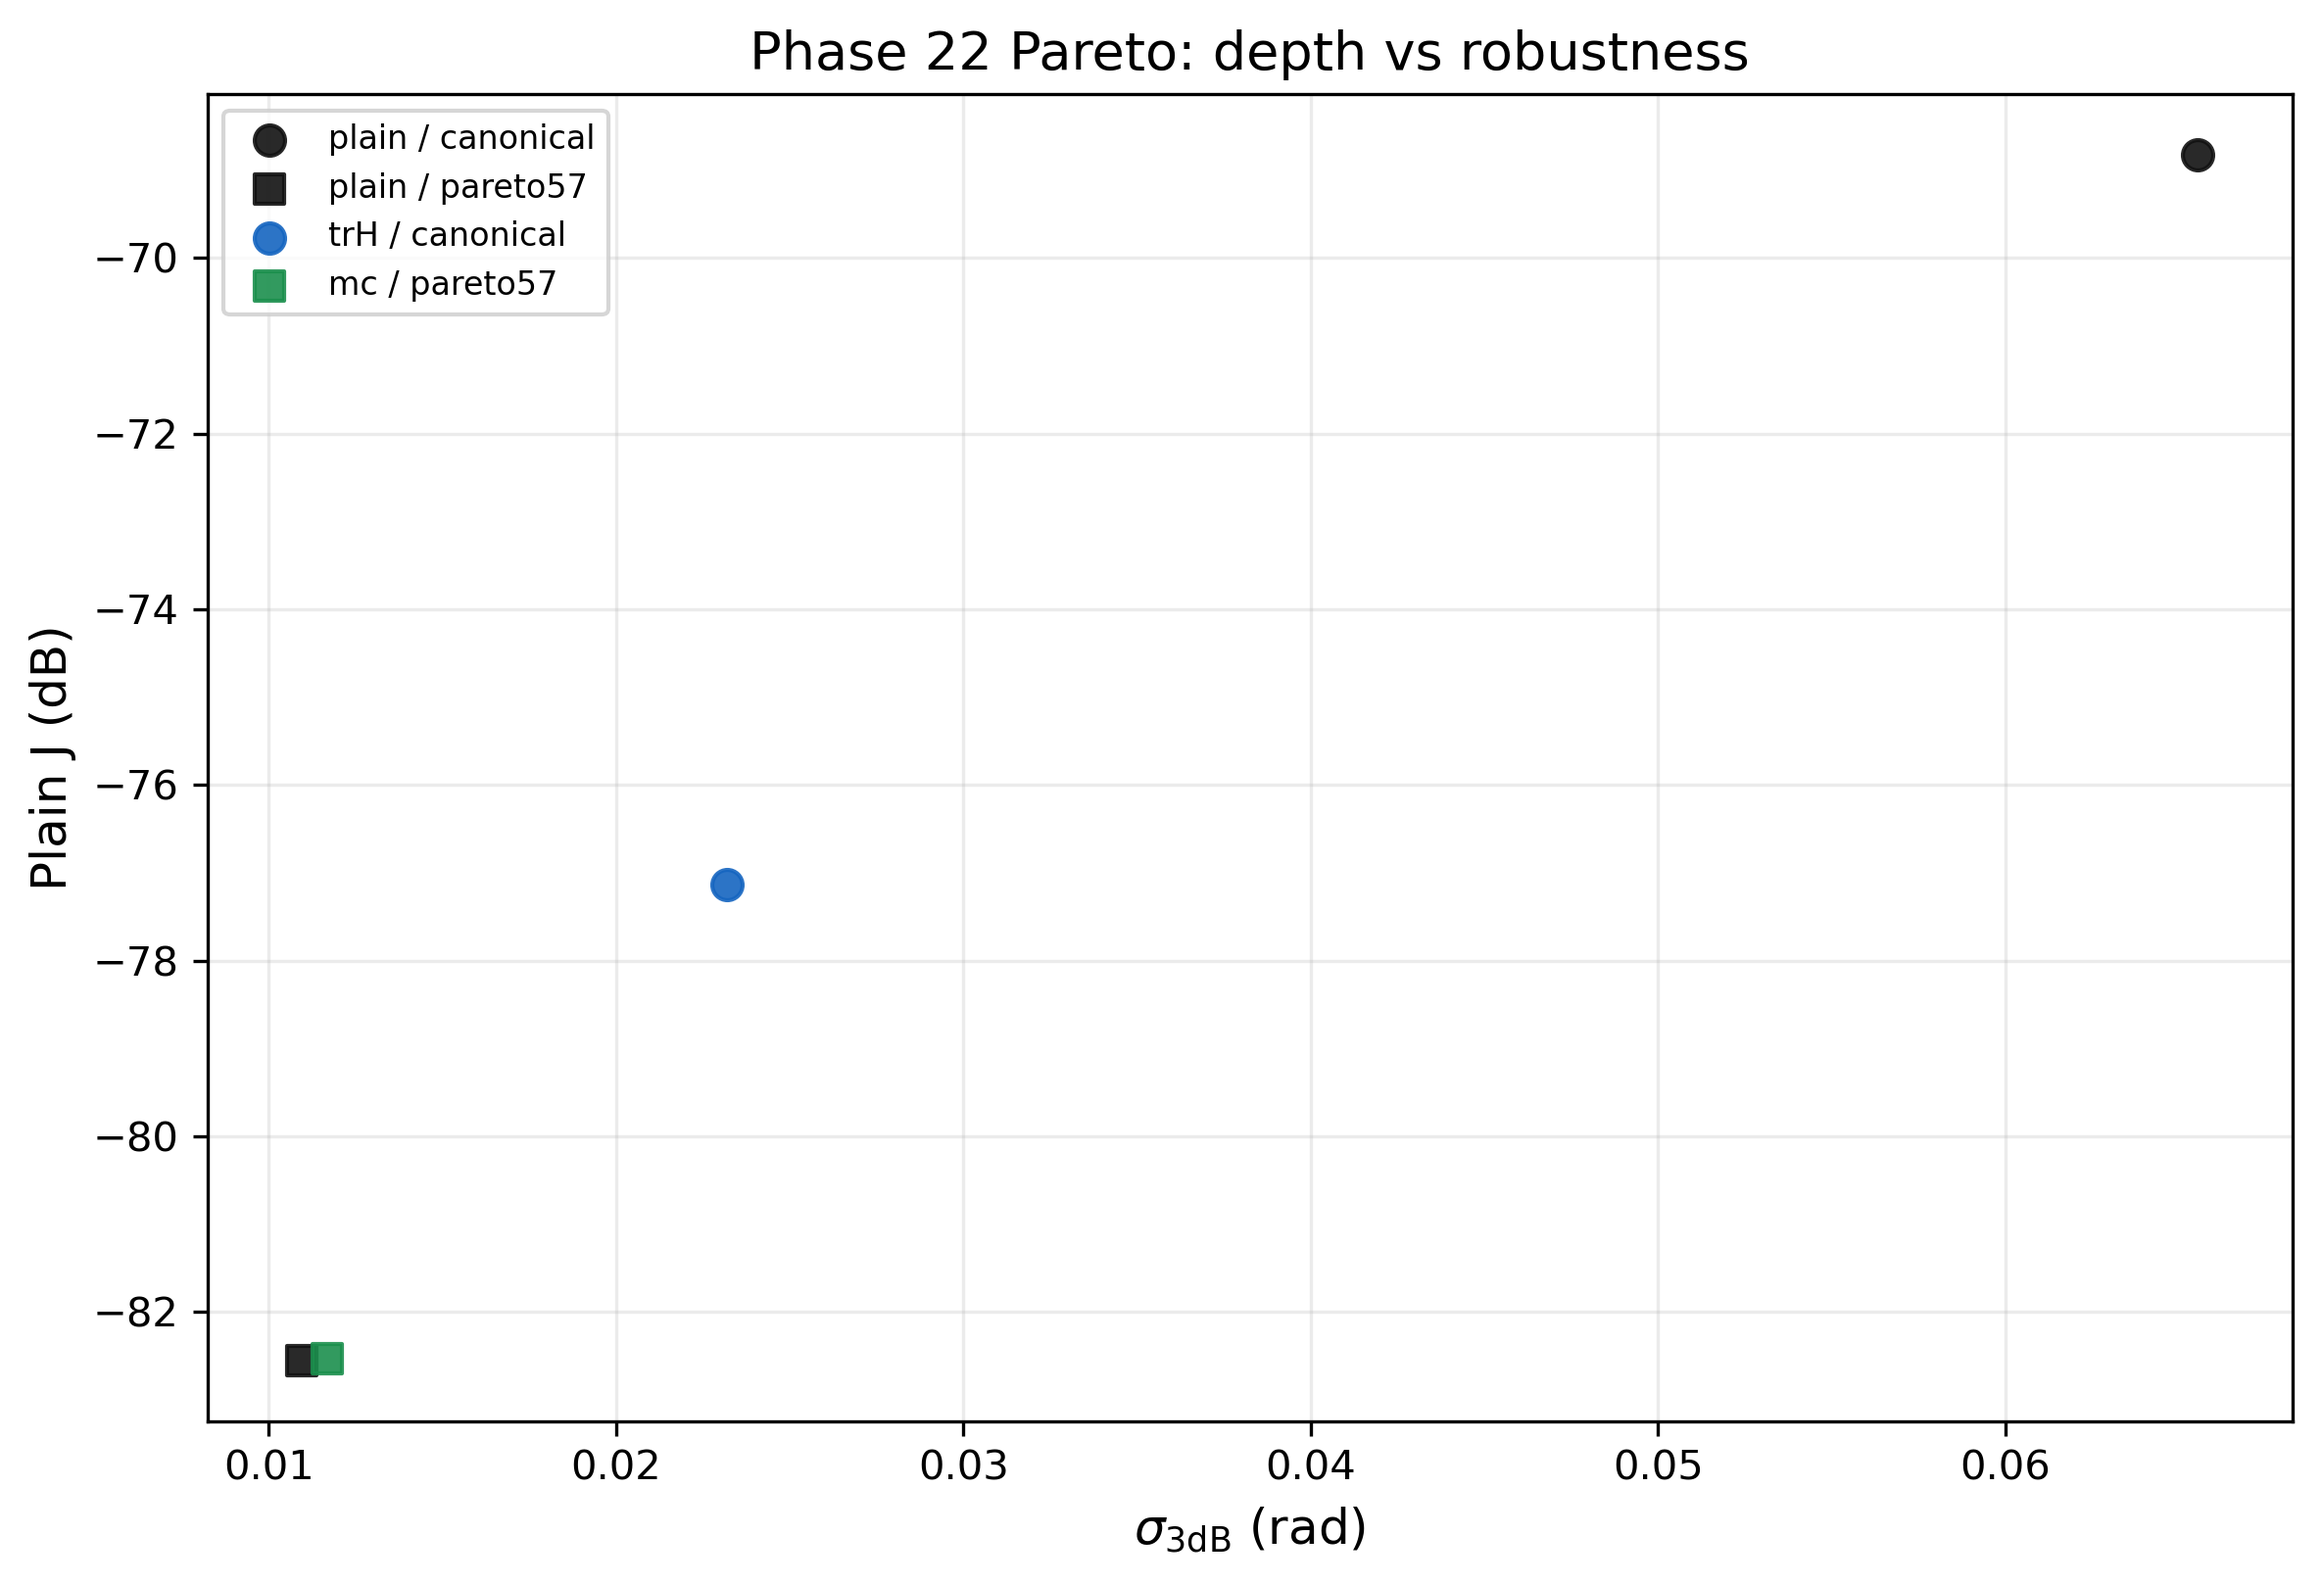
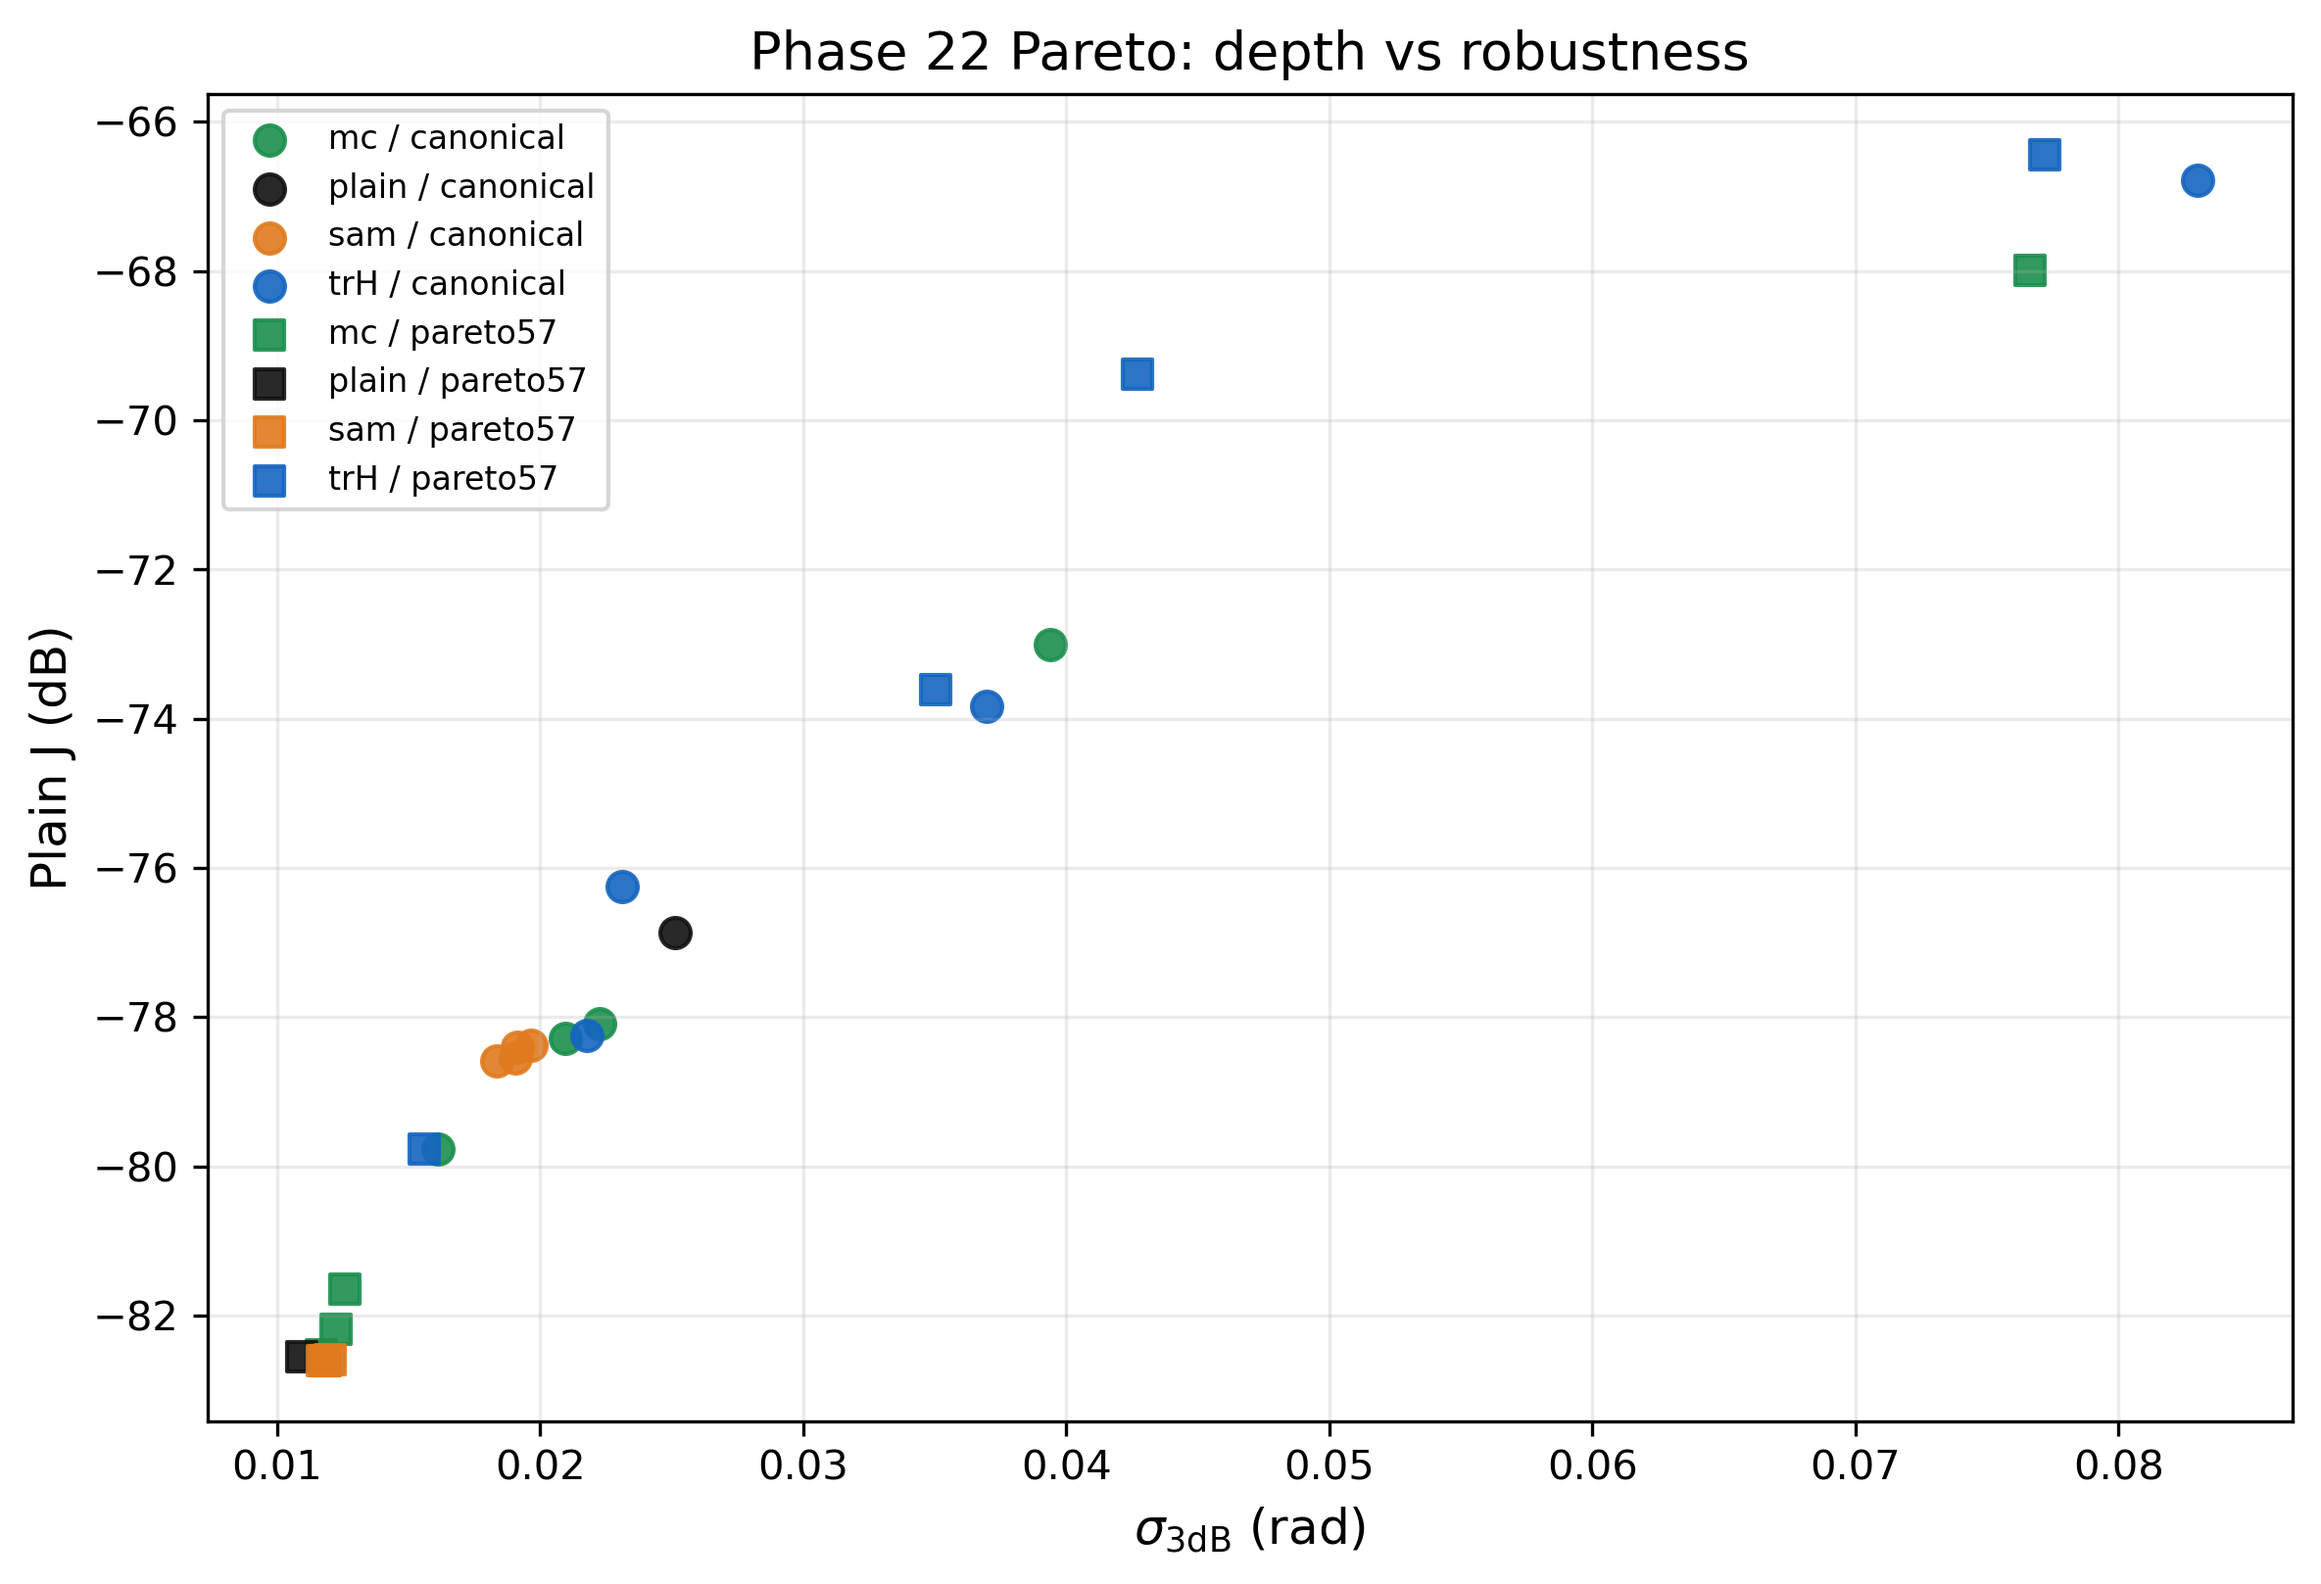
results(22): synthesize sharpness pareto findings

diff --git a/results/raman/phase22/SUMMARY.md b/results/raman/phase22/SUMMARY.md
@@ -1,20 +1,22 @@
 # Phase 22 Summary
 
-**Generated:** 2026-04-20 01:38:57
+**Generated:** 2026-04-20 03:07:14
 
 ## Verdict
 
-- Across the completed Phase 22 sweep, every measured optimum remained Hessian-indefinite in the optimized control space. That is the main geometry result: flattening the basin, when it happened at all, did not convert these optima into clean positive-definite minima.
-- On the canonical point, the best robustness gain was 0.000 rad at a depth cost of 0.00 dB; on the Pareto-57 point, the best gain was 0.001 rad at a depth cost of 0.03 dB.
-- The current evidence does not justify replacing the default log-dB optimizer. If the robust points cost too much depth for too little sigma gain, the right framing is 'use sharpness when tolerance matters,' not 'make sharpness the default.'
-- Within this sweep, the best robustness-depth tradeoff was delivered most consistently by `plain`.
+- Across the resolved Hessian spectra in the completed Phase 22 sweep, every measured optimum remained Hessian-indefinite in the optimized control space. That is the main geometry result: flattening the basin, when it happened at all, did not convert these optima into clean positive-definite minima.
+- On the canonical point, the best robustness gain was 0.058 rad at a depth cost of 10.08 dB; on the Pareto-57 point, the best gain was 0.066 rad at a depth cost of 16.12 dB.
+- SAM did not produce a useful robustness Pareto in this sweep: its best sigma shift was -0.006 rad on the canonical point and 0.001 rad on Pareto-57, both negligible relative to the trace and strong-MC objectives.
+- MC gave the cheaper robustness option on the canonical point (+0.014 rad for 3.85 dB depth loss), while the Hessian-trace penalty delivered the largest tolerance gains (+0.058 rad canonical, +0.066 rad Pareto-57) at a much steeper cost (10.08 dB and 16.12 dB, respectively).
+- The current evidence does not justify replacing the default log-dB optimizer. The defensible default remains the plain objective; `trH` and, secondarily, strong MC are optional robustness modes when shaper error tolerance matters more than Raman depth.
 
 ## Artifacts
 
-- Result bundle: `/Users/ignaciojlizama/RiveraLab/raman-wt-sharpness/scripts/../results/raman/phase22/phase22_results_smoke.jld2`
+- Result bundle: `/Users/ignaciojlizama/RiveraLab/raman-wt-sharpness/scripts/../results/raman/phase22/phase22_results.jld2`
 - Pareto plot: `/Users/ignaciojlizama/RiveraLab/raman-wt-sharpness/scripts/../results/raman/phase22/phase22_pareto.png`
 - Standard images: `/Users/ignaciojlizama/RiveraLab/raman-wt-sharpness/scripts/../.planning/phases/22-sharpness-research/images`
-- Completed records: `4` successful / `0` failed
+- Completed records: `26` successful / `0` failed
+- Hessian spectra: `26` resolved / `0` unresolved
 
 ## Pareto Plot
 
@@ -22,9 +24,31 @@
 
 ## Hessian Indefiniteness Table
 
-| Operating Point | Flavor | Strength | J_dB | sigma_3dB | Indefinite? | |lambda_min|/lambda_max |
-|---|---|---:|---:|---:|:---:|---:|
-| canonical | plain | 0 | -68.82 | 0.066 | YES | 2.174e-02 |
-| canonical | trH | 1.000e-04 | -77.13 | 0.023 | YES | 1.092e-02 |
-| pareto57 | mc | 1.000e-02 | -82.53 | 0.012 | YES | 2.418e-01 |
-| pareto57 | plain | 0 | -82.56 | 0.011 | YES | 2.382e-01 |
+| Operating Point | Flavor | Strength | J_dB | sigma_3dB | Hessian | Indefinite? | |lambda_min|/lambda_max |
+|---|---|---:|---:|---:|---|:---:|---:|
+| canonical | mc | 1.000e-02 | -78.29 | 0.021 | ok | YES | 2.640e-02 |
+| canonical | mc | 2.500e-02 | -79.77 | 0.016 | ok | YES | 5.946e-02 |
+| canonical | mc | 5.000e-02 | -78.09 | 0.022 | ok | YES | 1.025e-02 |
+| canonical | mc | 7.500e-02 | -73.01 | 0.039 | ok | YES | 1.364e-02 |
+| canonical | plain | 0 | -76.86 | 0.025 | ok | YES | 5.540e-03 |
+| canonical | sam | 1.000e-02 | -78.59 | 0.018 | ok | YES | 1.486e-02 |
+| canonical | sam | 2.500e-02 | -78.40 | 0.019 | ok | YES | 5.540e-03 |
+| canonical | sam | 5.000e-02 | -78.38 | 0.020 | ok | YES | 5.302e-03 |
+| canonical | sam | 1.000e-01 | -78.55 | 0.019 | ok | YES | 1.354e-02 |
+| canonical | trH | 1.000e-04 | -78.24 | 0.022 | ok | YES | 1.403e-02 |
+| canonical | trH | 3.000e-04 | -76.25 | 0.023 | ok | YES | 2.199e-02 |
+| canonical | trH | 1.000e-03 | -73.83 | 0.037 | ok | YES | 1.793e-02 |
+| canonical | trH | 3.000e-03 | -66.79 | 0.083 | ok | YES | 1.077e-02 |
+| pareto57 | mc | 1.000e-02 | -82.53 | 0.012 | ok | YES | 2.418e-01 |
+| pareto57 | mc | 2.500e-02 | -82.18 | 0.012 | ok | YES | 2.409e-01 |
+| pareto57 | mc | 5.000e-02 | -81.65 | 0.013 | ok | YES | 3.033e-01 |
+| pareto57 | mc | 7.500e-02 | -67.98 | 0.077 | ok | YES | 7.869e-02 |
+| pareto57 | plain | 0 | -82.56 | 0.011 | ok | YES | 2.382e-01 |
+| pareto57 | sam | 1.000e-02 | -82.59 | 0.012 | ok | YES | 2.391e-01 |
+| pareto57 | sam | 2.500e-02 | -82.60 | 0.012 | ok | YES | 2.392e-01 |
+| pareto57 | sam | 5.000e-02 | -82.60 | 0.012 | ok | YES | 2.390e-01 |
+| pareto57 | sam | 1.000e-01 | -82.61 | 0.012 | ok | YES | 2.391e-01 |
+| pareto57 | trH | 1.000e-04 | -79.76 | 0.016 | ok | YES | 2.334e-01 |
+| pareto57 | trH | 3.000e-04 | -73.61 | 0.035 | ok | YES | 3.855e-01 |
+| pareto57 | trH | 1.000e-03 | -66.44 | 0.077 | ok | YES | 9.838e-02 |
+| pareto57 | trH | 3.000e-03 | -69.38 | 0.043 | ok | YES | 5.685e-02 |

diff --git a/results/raman/phase22/REVIEWS.md b/results/raman/phase22/REVIEWS.md
@@ -2,62 +2,53 @@
 
 ## Findings
 
-### No blocking findings remain after the smoke-cycle fixes
+### No blocking findings remain after the full production run
 
-The current implementation passed a full smoke cycle covering:
+The final Phase 22 pipeline completed the full 26-record sweep, emitted the
+mandatory 104-image standard set, resolved Hessian spectra for all 26 records,
+and produced the final Pareto summary and geometry table without manual patch-up.
 
-- full-resolution canonical baseline
-- reduced-basis Pareto baseline
-- one full-resolution `tr(H)` run
-- one reduced-basis `MC` run
-- post-hoc `sigma_3dB`
-- post-hoc Hessian eigenspectrum
-- serial `save_standard_set(...)`
-- summary/pareto generation
+### Fixed during review: Pareto seed loader needed `Symbol` keys, not `String` keys
 
-### Fixed during review: saved Pareto seed loader used the wrong JLD2 key type
+`results/raman/phase_sweep_simple/sweep2_LP_fiber.jld2` stores `record["config"]`
+as `Dict{Symbol,Any}`. The original lookup silently missed the target
+`N_phi = 57` row. `scripts/sharpness_phase22_lib.jl::_load_pareto_seed()` now
+reads symbol keys and reliably recovers the Phase 17 seed.
 
-`results/raman/phase_sweep_simple/sweep2_LP_fiber.jld2` stores
-`record["config"]` as `Dict{Symbol,Any}`, not `Dict{String,Any}`. The first
-smoke failure was a row-lookup miss caused by string-key access. The loader in
-`scripts/sharpness_phase22_lib.jl::_load_pareto_seed()` now reads symbol keys.
+### Fixed during review: low-resolution Hessians should use the exact dense Phase 13 path
 
-### Fixed during review: low-resolution Hessian path should be dense, not Arpack
+The 57-dimensional operating point does not need Arpack. The final code routes
+`N <= 1024` through `build_full_hessian_small(...)` from Phase 13 and reserves
+Arpack for the full-resolution canonical control space only.
 
-The second smoke failure was an Arpack/HVPOperator mismatch on the 57-dimensional
-control space. That was unnecessary complexity: Phase 13 already ships the
-small-N exact Hessian builder `build_full_hessian_small(...)`. The library now
-uses:
+### Fixed during review: Hessian extraction must be isolated from the threaded optimization sweep
 
-- dense exact Hessian for `N <= 1024`
-- Arpack only for the full-resolution case
+The critical production bug was not simple non-convergence; concurrent Arpack
+post-processing could segfault Julia itself. The final design splits the phase
+into:
 
-This is both more robust and cheaper for the Pareto point.
+- threaded optimization + `sigma_3dB` measurement + `save_standard_set(...)`
+- isolated one-record-at-a-time Hessian postpass via `scripts/sharpness_phase22_hessian_one.jl`
+- final bundle collection via `scripts/sharpness_phase22_collect.jl`
 
-### Fixed during review: full-resolution Arpack wing extraction needed a retry path
-
-The canonical `tr(H)` smoke run initially hit Arpack non-convergence at the
-requested wing size. The production path now retries with:
-
-- reduced `nev`
-- larger `maxiter`
-- looser `tol`
-
-That keeps the record alive instead of failing the whole task.
+That is the change that made the 26-record production batch reliable.
 
 ## Residual Risks
 
-- The full production sweep may still see slow or partially converged
-  eigenspectra on some full-resolution runs. That is acceptable because the
-  runner snapshots per-task results and records failures without aborting the
-  batch.
-- Smoke-mode baseline depths are intentionally under-optimized (`max_iter=8`)
-  and should not be interpreted physically.
-- `save_standard_set(...)` emits a recurring `pcolormesh` monotonic-coordinate
-  warning from existing plotting code. It does not block image generation and
-  is outside the Phase 22 namespace.
+- Full-resolution Hessian wings are still slow because they rely on Arpack over
+  a finite-difference HVP operator. The isolation step makes this tolerable,
+  but not cheap.
+- `save_standard_set(...)` still emits the pre-existing Matplotlib
+  `pcolormesh` monotonic-coordinate warning. It does not block image generation
+  and is outside the Phase 22 write scope.
+- The tracked markdown summary and Pareto plot are versioned, but the large
+  JLD2 bundles and the 104 PNG standard images follow the project's existing
+  results-artifact handling rather than normal source control.
 
 ## Verdict
 
-No blocking implementation defects remain after the smoke-cycle fixes. The
-production sweep can proceed.
+No blocking implementation defects remain. The final Phase 22 result is
+technically sound enough for D-docs to quote directly: the sweep ran to
+completion, the geometry claim is supported by resolved Hessian spectra, and
+the robustness recommendation is now based on the full two-operating-point
+Pareto rather than smoke-mode behavior.
